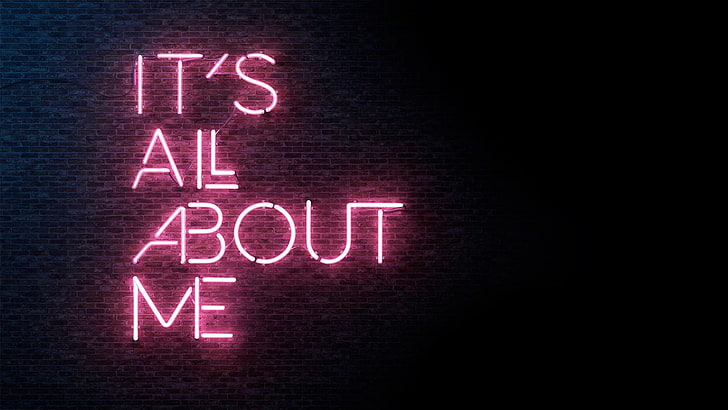
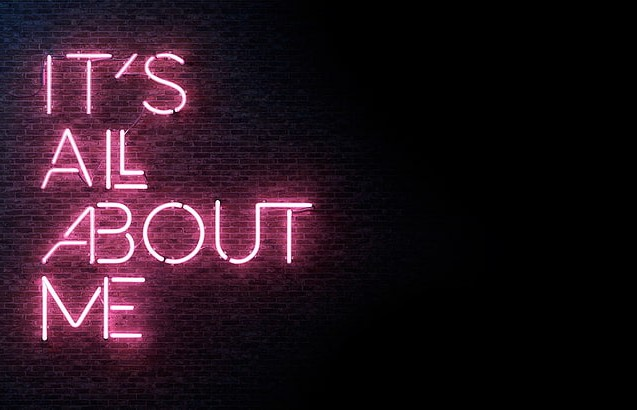
About page responsiveness

diff --git a/Frontend/src/pages/About.jsx b/Frontend/src/pages/About.jsx
@@ -71,9 +71,9 @@ const About = () => {
   useEffect(() => {
     axios
       .get("/api/user.rating?handle=Vivek1-coder")
-      .then(async (response) => {
-        const index = await response.data.result.length;
-        await setcodeforcesRatings(response.data.result[index - 1].newRating);
+      .then( (response) => {
+        const index = response.data.result.length;
+         setcodeforcesRatings(response.data.result[index - 1].newRating);
         setcodeforcesAttended(index);
       })
       .catch((error) => {
@@ -82,37 +82,37 @@ const About = () => {
   });
 
   useEffect(() => {
-    axios.get("/userContestRankingInfo/vivek1_coder").then(async (response) => {
-      await setLeetcodeAttended(
+    axios.get("/userContestRankingInfo/vivek1_coder").then( (response) => {
+       setLeetcodeAttended(
         response.data.data.userContestRanking.attendedContestsCount
       );
-      await setLeetcodeRatings(response.data.data.userContestRanking.rating);
+       setLeetcodeRatings(response.data.data.userContestRanking.rating);
       console.log(response.data.data.userContestRanking);
       console.log(leetcodeRatings, leetcodeAttended);
     });
   });
 
   return (
-    <div className="w-full h-screen relative ">
+    <div className="w-full h-screen relative object-contain">
       <div
-        className="absolute inset-0"
+        className="absolute inset-0 max-sm:hidden"
         style={{
           backgroundImage: `url(${back})`, // Replace with your image
           backgroundSize: "cover",
-          backgroundPosition: "center",
+          backgroundPosition: "left",
           backgroundRepeat: "no-repeat",
           opacity: 0.2, // Decrease image opacity
           zIndex: -0.2, // Ensure it stays behind the content
         }}
       ></div>
-      <section className="w-full h-screen relative text-white flex justify-center items-center">
-        <div className="h-4/5 w-4/5 flex flex-col">
-          <div className="h-3/5 flex">
-            <div className="w-1/2 flex flex-col justify-center items-center p-3 text-yellow-500">
+      <section className="w-full h-screen relative text-white flex justify-center md:items-center">
+        <div className="md:h-4/5 w-5/6 flex flex-col max-lg:overflow-y-auto md:gap-6">
+          <div className="md:h-3/5 flex flex-wrap max-md:mt-10 ">
+            <div className="w-full md:w-1/2 flex flex-col justify-center items-center p-3 text-yellow-500 ">
               <HoverableTable />
             </div>
-            <div className="w-1/2 flex justify-center items-center rounded-xl">
-              <div className="w-1/2 h-72 p-3 flex items-center flex-col text-center gap-5 rounded-xl shadow-md shadow-slate-500">
+            <div className="w-full md:w-1/2 flex justify-center items-center rounded-xl">
+              <div className="w-1/2 h-72 p-3 flex items-center flex-col text-center gap-5 rounded-xl shadow-md shadow-slate-500 background">
                 <ul className="flex flex-col gap-3">
                   <a href="https://codeforces.com/profile/Vivek1-coder">
                     <li className="btn">CodeForces</li>
@@ -142,9 +142,10 @@ const About = () => {
               </div>
             </div>
           </div>
-          <div className="h-2/5 flex justify-center items-center shadow-md shadow-slate-500 rounded-2xl m-6 p-3">
-            <p className="font-bold text-xl">Skills: </p>
-            <div className="flex flex-wrap gap-3 justify-center items-center p-10 overflow-y-auto">
+          <p className="font-bold md:text-xl mt-3 md:hidden ">Skills: </p>
+          <div className=" md:h-2/5 flex justify-center items-center shadow-md shadow-slate-500 rounded-2xl m-3 p-1 background ">
+            <p className="font-bold md:text-xl max-md:hidden">Skills: </p>
+            <div className="flex md:h-5/6 flex-wrap gap-3 justify-center items-center p-10 overflow-y-auto ">
               {skills.map((skill) => (
                 <Skillbar
                   key={skill.id}

diff --git a/Frontend/src/components/Table/Table.jsx b/Frontend/src/components/Table/Table.jsx
@@ -14,7 +14,7 @@ const HoverableTable = () => {
 
   return (
     <div style={{ padding: "20px", maxWidth: "800px" }}>
-      <table className="hoverable-table shadow-md shadow-slate-500 rounded-xl overflow-hidden ">
+      <table className="hoverable-table shadow-md shadow-slate-500 rounded-xl overflow-hidden background">
         <thead>
             <tr>
                